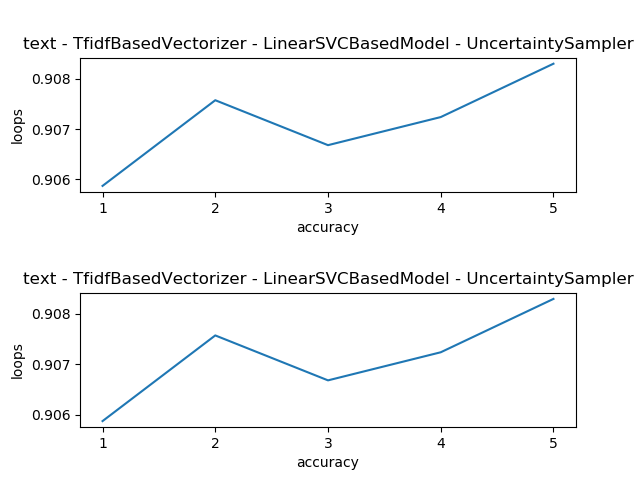
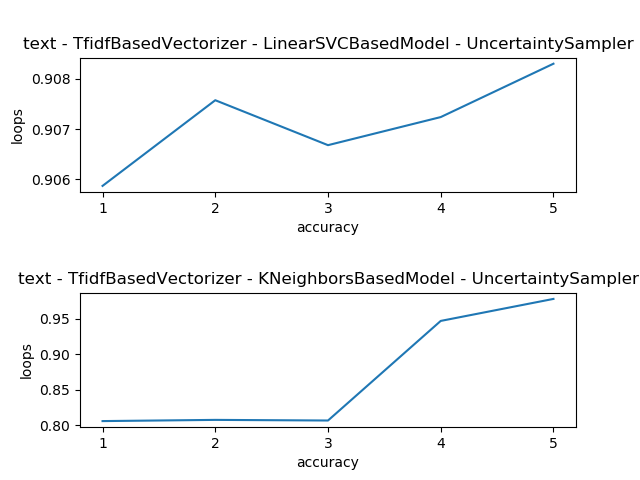
ariadne graphs

diff --git a/ariadne/results_to_graphs.py b/ariadne/results_to_graphs.py
@@ -120,146 +120,30 @@ def get_graph_title_from_logs(json_content):
 
     return field + " - " + vectorizer + " - " + learner + " - " + sampler
 
-def process_results(logs):
-    loop_logs = [log for log in logs if 'loop' in log]
+def generate_graphs(input_folder, output_filename, target_field):
 
-    loops_values = [log["loop"] for log in logs if 'loop' in log]  # datetime
-    accuracies = [log["accuracy"] for log in logs if 'loop' in log]
-    # diff_accuracies = [float(log["diff_accuracy"]) for log in logs if 'loop' in log if log["diff_accuracy"] != 'None']
-    wrong_answers = [log["wrong_pred_answers"] for log in logs if 'loop' in log]
+    log_files = [f.path for f in os.scandir(input_folder) if
+                 "best_config_" in f.path] # Reading all the files
+    fig, axs = plt.subplots(nrows=len(log_files))
 
-    return loops_values, accuracies, wrong_answers
+    for index, path in enumerate(log_files):
+        json_content = read_file(path)
+        logs = get_formatted_logs(json_content)
 
+        axs[index].plot(logs["loops"], logs["accuracies"])
+        axs[index].set_title(get_graph_title_from_logs(json_content))
+        axs[index].set(xlabel=target_field, ylabel='loops')
+        axs[index].xaxis.set_ticks(logs["loops"])
+        # start, end = axs[index].get_xlim()
+        # axs[index].xaxis.set_ticks(np.arange(start, end, 1))
 
-def print_in_file(content, path):
-    file = open(path, "a+")
-    file.write(content)
-    file.close()
-
-
-def get_config_value(prop_name, full_text):
-    start_index = full_text.index(prop_name) + 4
-    end_index = start_index + 3
-
-    return full_text[start_index:end_index]
-
-
-def get_config_name(full_text):
-    hyp = re.search(r'HYP', full_text, re.M | re.I)
-    if hyp is None:
-        cnf = str(int(float(get_config_value("_cnf", full_text)) * 100))
-        ret = str(int(float(get_config_value("_ret", full_text)) * 100))
-        bgr = str(int(float(get_config_value("_bgr", full_text)) * 100))
-
-        return cnf + "·" + ret + "·" + bgr
-    else:
-        print("hyp")
-        return "HYP"
-
-
-def get_value_at_loop(prop_name, loop_index, logs):
-    target_loop = [log for log in logs if log["loop"] == loop_index]
-
-    return target_loop[0]
-
+    plt.subplots_adjust(hspace=0.75)
+    fig.savefig(output_filename, dpi=None, orientation='portrait', transparent=False, pad_inches=0.1,
+                frameon=None, metadata=None)
 
 # -------------------------------------------------------------------------------------
 # -------------------------------------------------------------------------------------
 # -------------------------------------------------------------------------------------
 
-# Reading all the files
-log_files = [f.path for f in os.scandir(os.path.join(os.getcwd(), "classification", "logs"))]
-fig, axs = plt.subplots(nrows=len(log_files))
-
-for index, path in enumerate(log_files):
-    json_content = read_file(path)
-    logs = get_formatted_logs(json_content)
-
-    axs[index].plot(logs["loops"], logs["accuracies"])
-    axs[index].set_title(get_graph_title_from_logs(json_content))
-    axs[index].set(xlabel='accuracy', ylabel='loops')
-    axs[index].xaxis.set_ticks(logs["loops"])
-    # start, end = axs[index].get_xlim()
-    # axs[index].xaxis.set_ticks(np.arange(start, end, 1))
-
-plt.subplots_adjust(hspace=0.75)
-fig.savefig("demo.png", dpi=None, orientation='portrait', transparent=False, pad_inches=0.1,
-        frameon=None, metadata=None)
-
-
-
-
-
-
-
-
-
-
-
-
-
-
-
-
-#
-#
-#
-#
-#
-#
-#
-#
-#
-#
-#
-# for scenario_number in ["1","2","3","4"]:
-#     # PARAMS
-#     # this expects that Experiments_for_plotting contains folders called experiment_n
-#     # these folders contain logs_0n, and the latter contains the actual logs for the case
-#     logs_path = "/home/stage/experiment/2015_experiment/best_logs/experiment_" + scenario_number
-#     output_path = "/home/stage/experiment/2015_experiment/newfigures/figures_" + scenario_number
-#     initial = {"1": "2 events",
-#                "2": "Full events",
-#                "3": "All image clusters of 2 events",
-#                "4": "All image clusters of all events"}
-#
-#     initial_f = {"1": "_2_events",
-#                  "2": "_full_events",
-#                  "3": "_all_image_clusters_of_2_events",
-#                  "4": "_all_image_clusters_of_all_events"}
-#     initial_str = initial[scenario_number]
-#     initial_file = initial_f[scenario_number]
-#
-#     # Initialization
-#     logs_folders = [f.path for f in os.scandir(logs_path) if f.is_dir()]
-#     target_loops = [1, 10, 20, 50, 100]
-#     configs = []
-#     values_by_loop = {}
-#     loop_prefix = "loop "
-#     for loop in target_loops:
-#         values_by_loop[loop_prefix + str(loop)] = []
-#
-#
-#     # Looping each session to get the HYP results
-#     hyp_results = []
-#     for path in logs_folders:
-#
-#         # Get all the OUR files for the session
-#         # session_files = [f for f in os.scandir(path) if not f.is_dir() and "_OUR_" in f.name]
-#         session_files = [f for f in os.scandir(path) if not f.is_dir()]
-#
-#         for file in session_files:
-#             # Get the logs of the only file for HYP
-#             file_content = read_file(file.path)
-#             logs = [line for line in file_content if 'loop' in line]
-#
-#             configs.append(get_config_name(file.name))
-#
-#             for loop in target_loops:
-#                 values_by_loop[loop_prefix + str(loop)].append(get_value_at_loop("accuracy", loop, logs))
-#
-#     draw_barchart(title="Evolution of accuracy across loops and configurations " + initial_str,
-#                   values_by_loop=values_by_loop,
-#                   x_axis_title="Configs (hw·dw·bw)", y_axis_title="Accuracy",
-#                   full_path=os.path.join(output_path, 'OUR_accuracies' + initial_file + '.png'), configs=configs, round_values=True, show_labels=True,
-#                   target_loops=target_loops, prop_name="accuracy", max_y_axis_value=1, min_y_axis_value=0.0, y_dtick=0.05)
+input_folder = os.path.join(os.getcwd(), "classification", "logs")
+generate_graphs(input_folder, output_filename="demo.png", target_field="accuracy")
